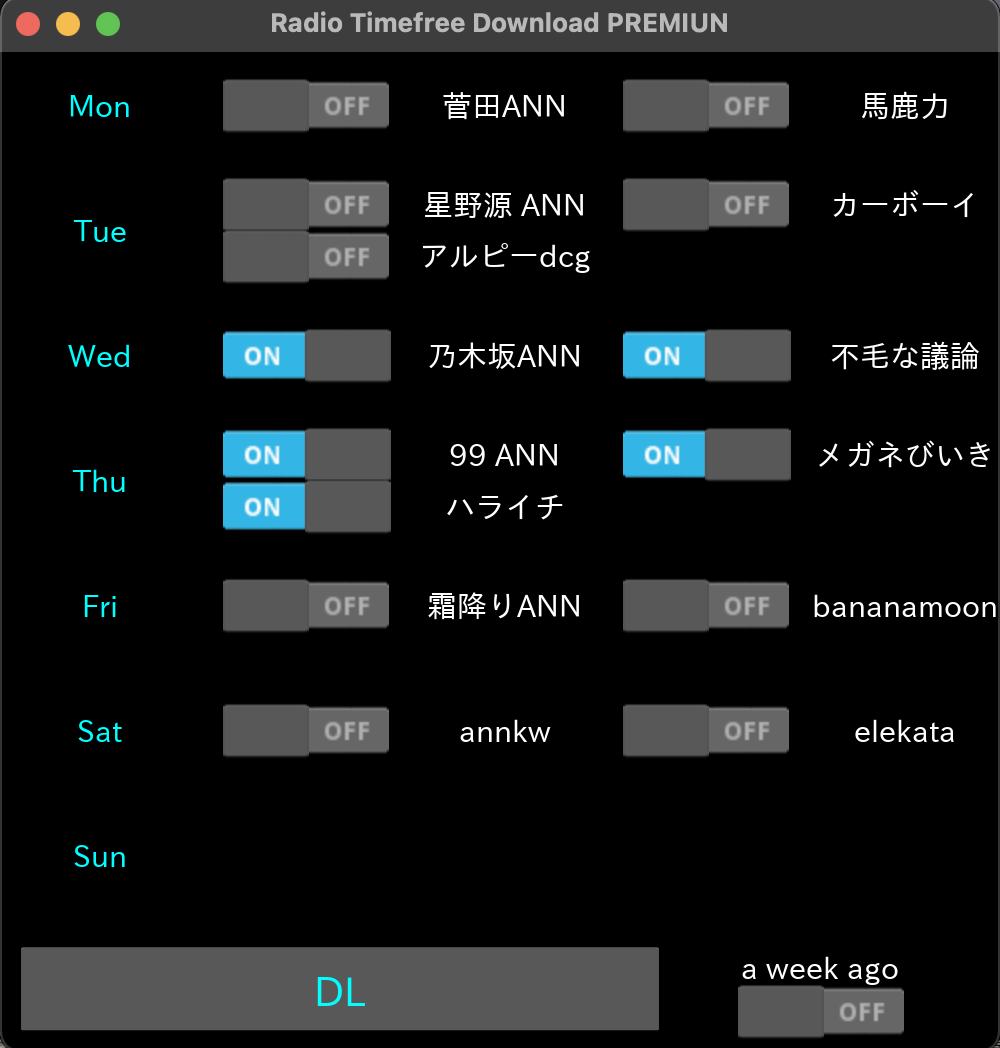
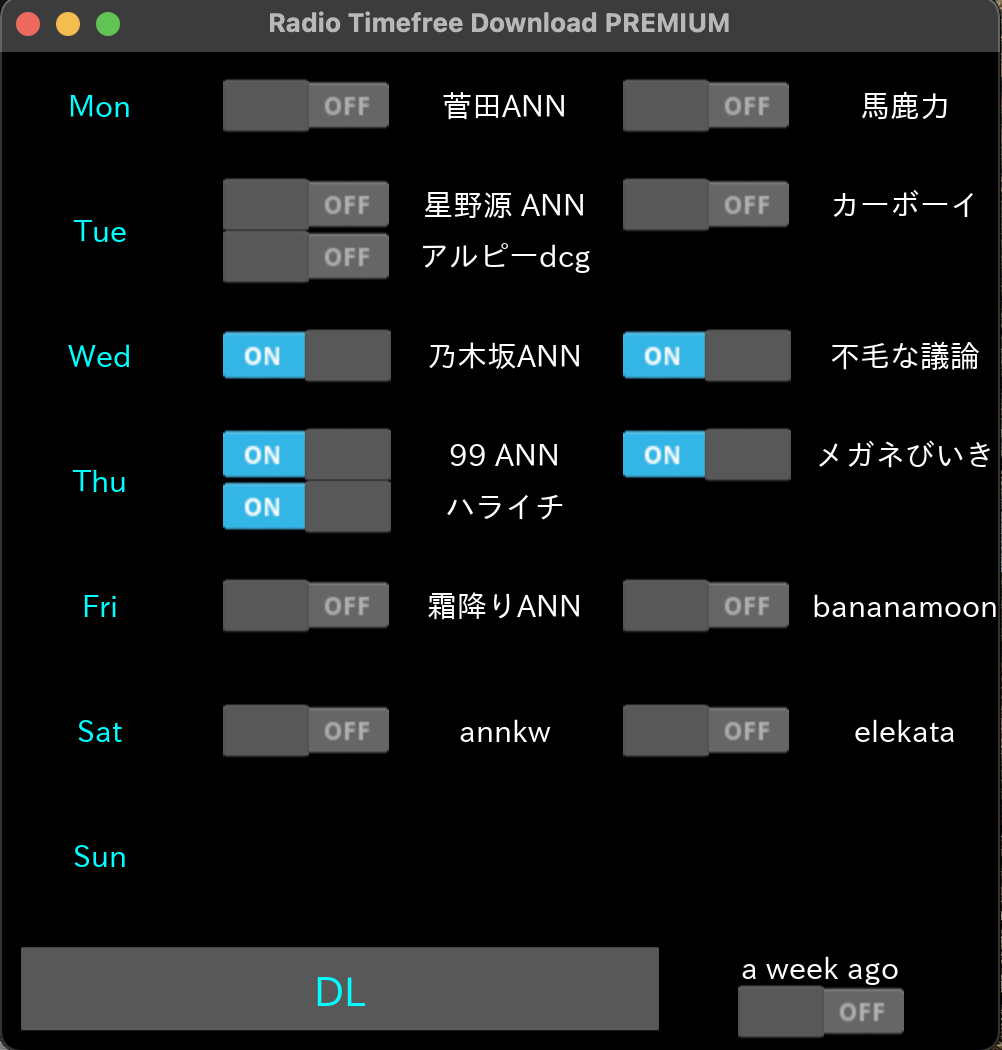
Updated

diff --git a/TFDL.py b/TFDL.py
@@ -40,7 +40,7 @@ premiun_password = ''
 class TimefreeDownloadApp(App):
     def __init__(self, **kwargs):
         super(TimefreeDownloadApp,self).__init__(**kwargs)
-        if is_premium: self.title = 'Radio Timefree Download PREMIUN'
+        if is_premium: self.title = 'Radio Timefree Download PREMIUM'
         else: self.title = 'Radio Timefree Download'
 
     def build(self):
@@ -60,7 +60,6 @@ def checkRenew():
         with open(cwd+"/temp/makeKV/timestamp", mode='w') as t:
             t.write(mtime)
             t.close()
-    #print(renew)
     return renew
 
 def makeKV():
@@ -336,7 +335,6 @@ class MainScreen(Widget):
 ################################################################################
 
 if __name__ == '__main__':
-#    id_dic = {}
     cwd = os.getcwd()
     if checkRenew(): makeKV()
     bool = [False]*7
